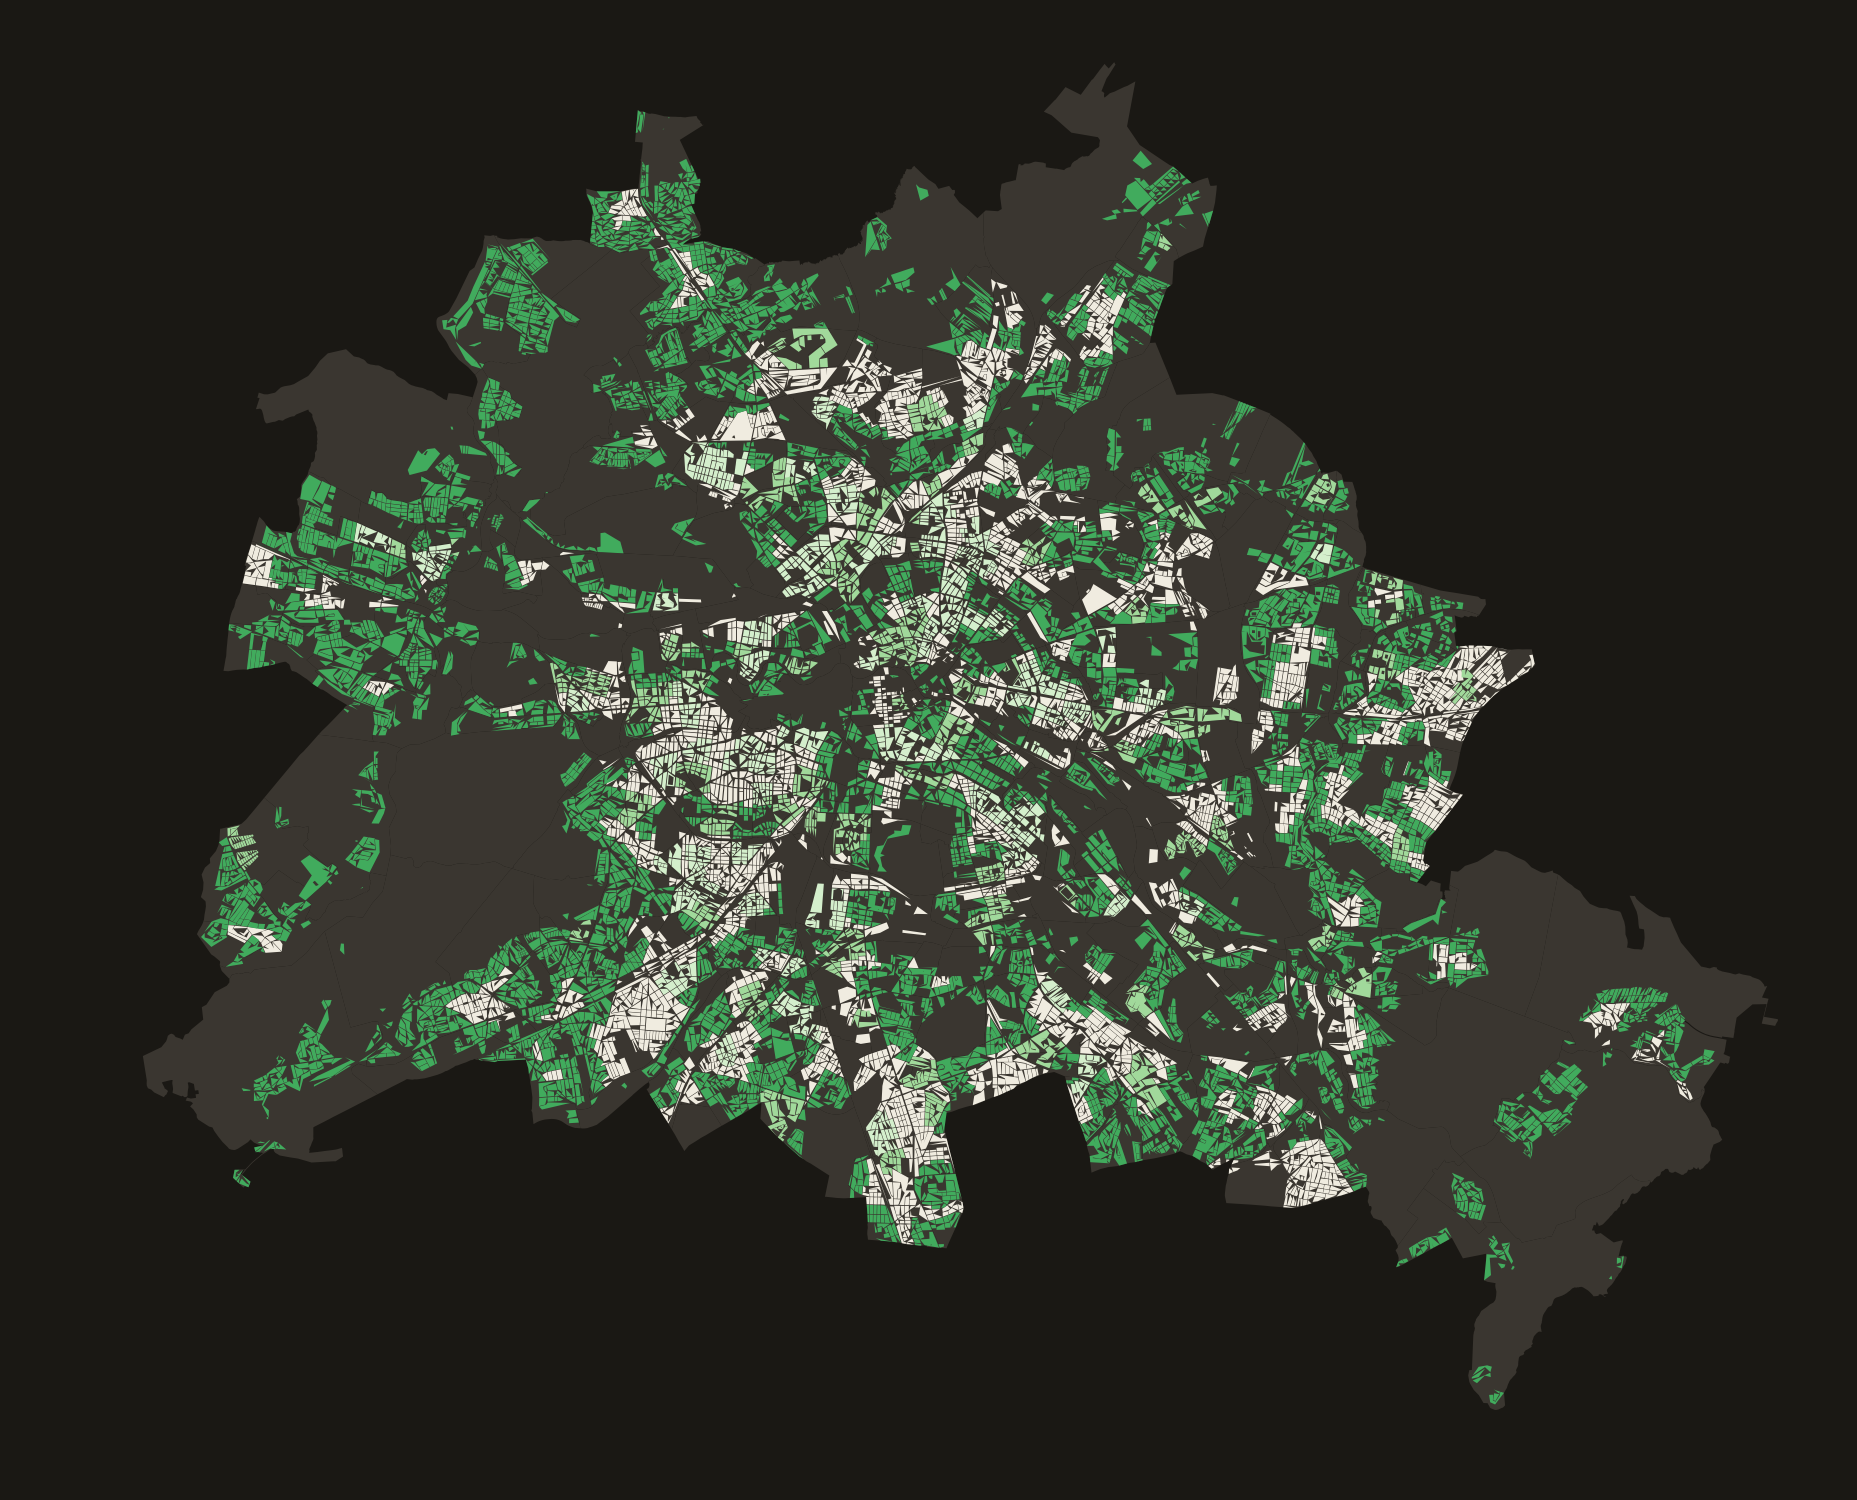
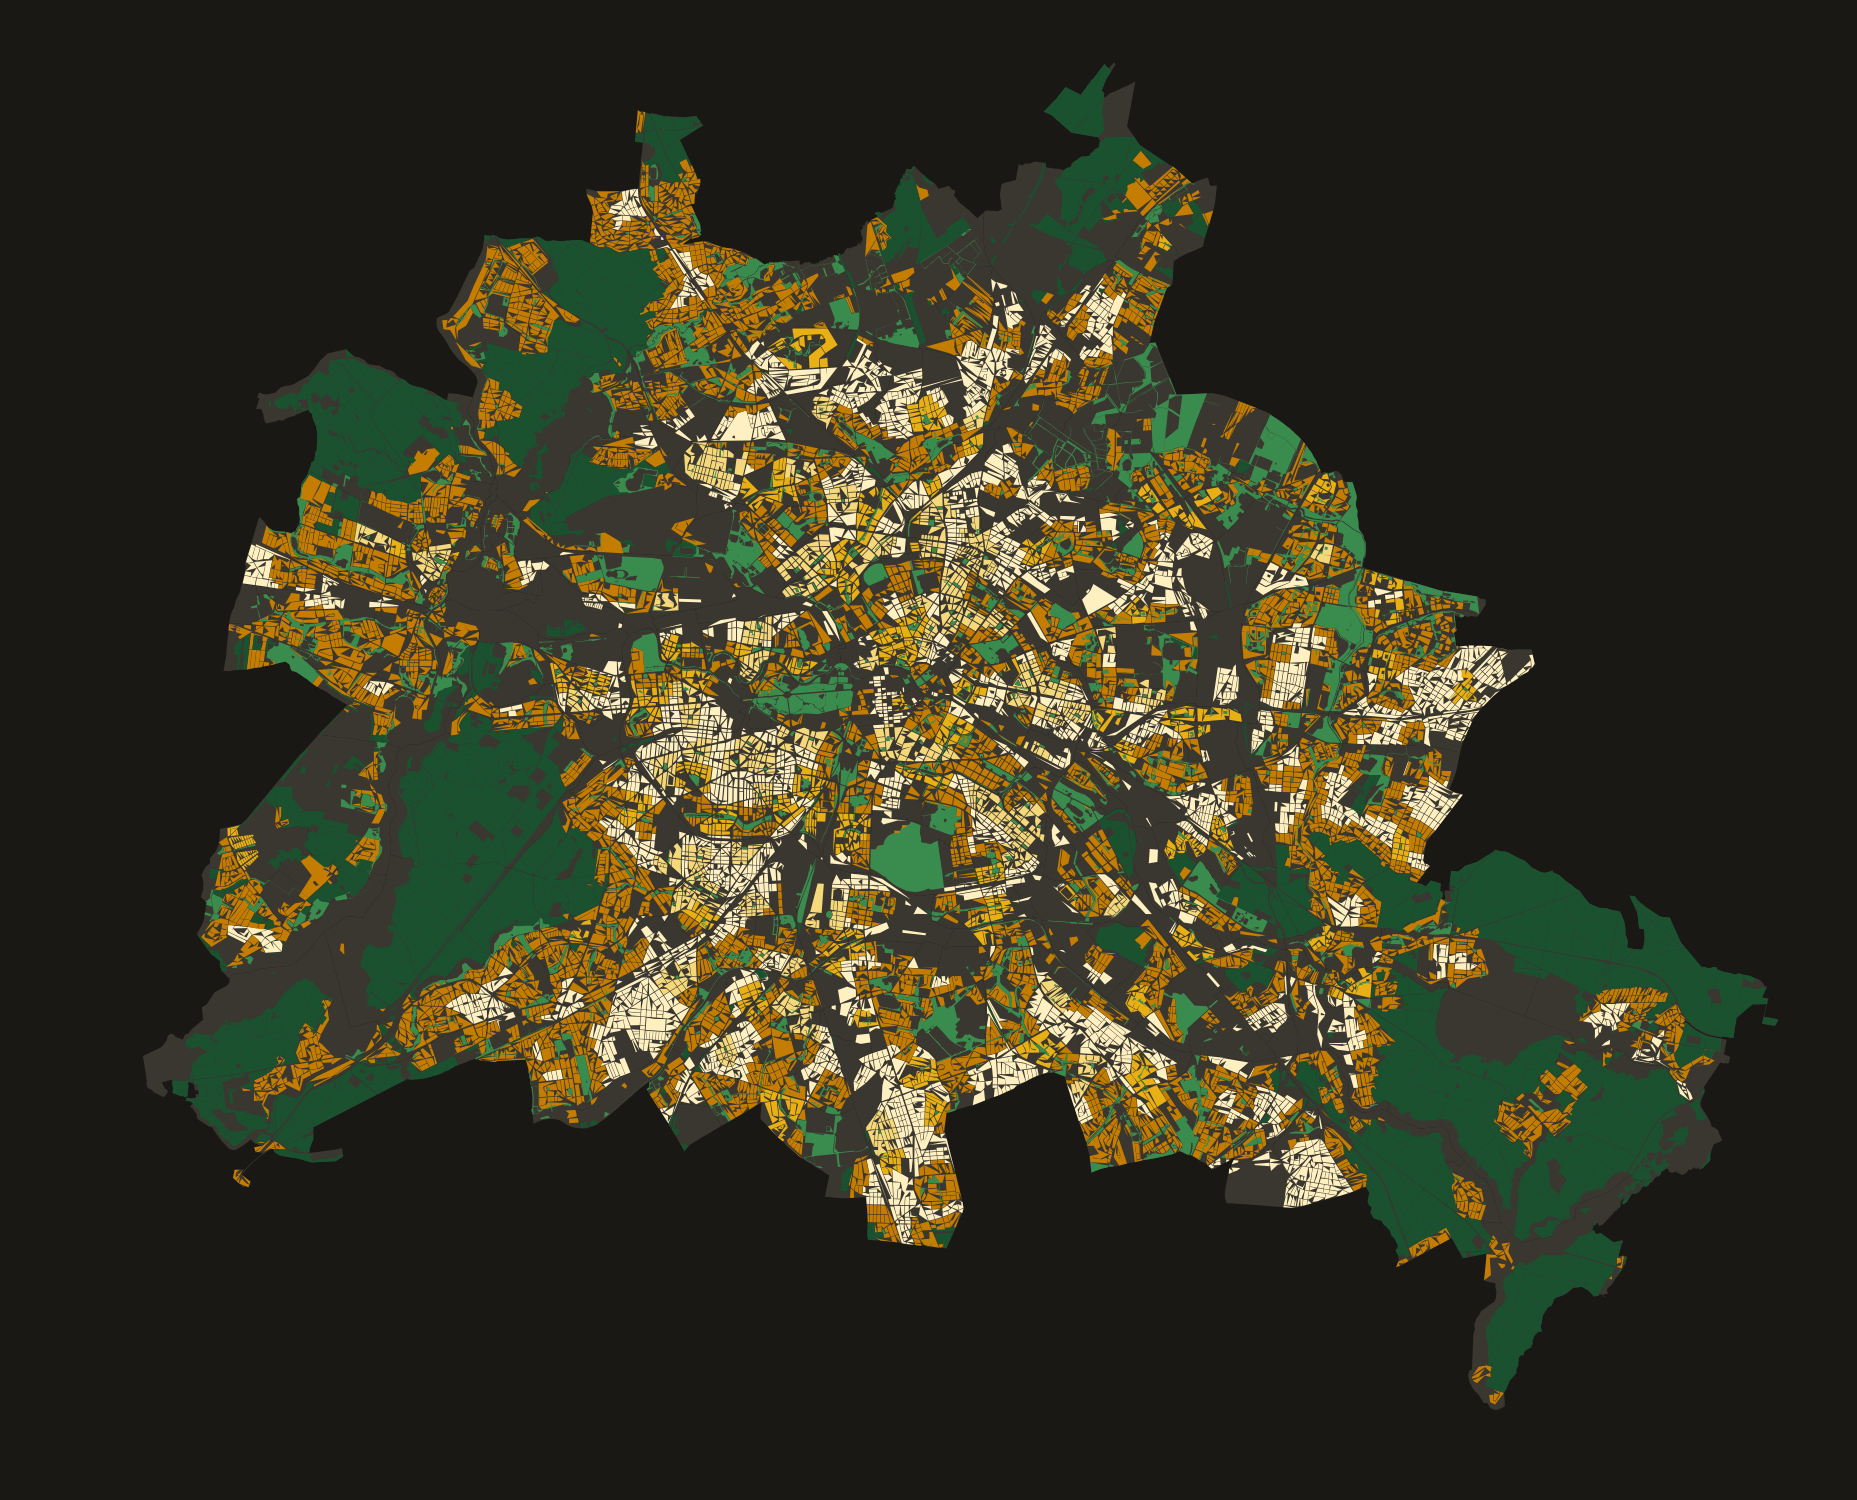
Neue Grünversorgungskarte mit Gelb-Abstufungen + Legenden mit Farbklötzen
- karten_rendern.py: Grünversorgung-Karte neu gebaut aus drei Lagen:
  LOR-Basis (dunkelgrau) → Versorgungsgrad (Gelb-Amber-Abstufungen) →
  Parks/Grünanlagen (mittleres Grün) → Wälder (dunkles Grün)
- index.html: Versiegelung-Legende mit 5 Farbklötzen (< 20 % bis > 80 %)
- index.html: Grünversorgung-Legende mit 6 Einträgen (4 Gelb + Parks + Wald)

Changed region(s): [[0.0937, 0.0613, 0.9682, 0.9507]]

diff --git a/index.html b/index.html
@@ -170,7 +170,11 @@
     <div class="mc-wrap" style="height:500px;margin-top:2px;border-color:rgba(0,0,0,.15)">
       <img src="versiegelung.png" style="width:100%;height:100%;object-fit:cover;display:block;">
       <div class="leg"><div class="leg-t">Versiegelungsgrad 2021</div>
-        <div class="leg-r" style="font-size:10px;color:rgba(245,242,235,.5);line-height:1.4;max-width:130px">Hell = gering · Dunkel = stark versiegelt</div>
+        <div class="leg-r"><div class="sw" style="background:#d4cfc4"></div>&lt; 20 % – sehr gering</div>
+        <div class="leg-r"><div class="sw" style="background:#fecc5c"></div>20–40 % – gering</div>
+        <div class="leg-r"><div class="sw" style="background:#f97b2a"></div>40–60 % – mittel</div>
+        <div class="leg-r"><div class="sw" style="background:#d7191c"></div>60–80 % – hoch</div>
+        <div class="leg-r"><div class="sw" style="background:#7f0000"></div>&gt; 80 % – sehr hoch</div>
       </div>
     </div>
     <p style="font-family:'DM Mono',monospace;font-size:11px;letter-spacing:.04em;color:var(--muted);margin-top:10px;margin-bottom:2px">Quelle: Versiegelung der Blockteilflächen 2021, Umweltatlas Berlin.</p>
@@ -182,10 +186,12 @@
     <div class="mc-wrap" style="height:500px;margin-top:2px;border-color:rgba(0,0,0,.15)">
       <img src="gruenversorgung.png" style="width:100%;height:100%;object-fit:cover;display:block;">
       <div class="leg"><div class="leg-t">Grünversorgung (500-m-Radius)</div>
-        <div class="leg-r"><div class="sw" style="background:#238b45"></div>Gut versorgt</div>
-        <div class="leg-r"><div class="sw" style="background:#74c476"></div>Unterversorgt</div>
-        <div class="leg-r"><div class="sw" style="background:#c7e9c0"></div>Schlecht versorgt</div>
-        <div class="leg-r"><div class="sw" style="background:#f7fcf5;border:1px solid rgba(255,255,255,.2)"></div>Nicht versorgt</div>
+        <div class="leg-r"><div class="sw" style="background:#c47d00"></div>Gut versorgt</div>
+        <div class="leg-r"><div class="sw" style="background:#e8b014"></div>Unterversorgt</div>
+        <div class="leg-r"><div class="sw" style="background:#f5d87a"></div>Schlecht versorgt</div>
+        <div class="leg-r"><div class="sw" style="background:#fef0c0;border:1px solid rgba(255,255,255,.15)"></div>Nicht versorgt</div>
+        <div class="leg-r" style="margin-top:4px"><div class="sw" style="background:#3a8c4e"></div>Parks / Grünanlagen</div>
+        <div class="leg-r"><div class="sw" style="background:#1a5230"></div>Wälder</div>
       </div>
     </div>
     <p style="font-family:'DM Mono',monospace;font-size:11px;letter-spacing:.04em;color:var(--muted);margin-top:10px;margin-bottom:48px">Quelle: Versorgung mit wohnungsnahen Grünanlagen 2020, Umweltatlas Berlin. m² öffentlicher Grünfläche pro Einwohner im 500-m-Gehwegnetz.</p>

diff --git a/karten_rendern.py b/karten_rendern.py
@@ -79,26 +79,39 @@ speichern(fig, os.path.join(ROOT, 'versiegelung.png'))
 # ── 2. Grünversorgung ──────────────────────────────────────────────────────
 
 print("[2/2] Rendere Grünversorgung 2020...")
-gdf_gv = gpd.read_file(os.path.join(ROOT, 'gruenversorgung.geojson'))
-gdf_gv = gdf_gv.to_crs('EPSG:25833')
 
-# LOR als Basis-Layer (füllt Lücken, damit kein schwarzer Hintergrund)
+# LOR als Basis-Layer
 gdf_lor = gpd.read_file(os.path.join(ROOT, 'lor.geojson'))
 gdf_lor = gdf_lor.to_crs('EPSG:25833')
 
-# Hellere Farben damit 'versorgter Bereich' nicht mit dem dunklen Hintergrund verschmilzt
+# Versorgungsgrad in Gelb-Abstufungen (dunkel = gut versorgt, hell = schlecht)
+gdf_gv = gpd.read_file(os.path.join(ROOT, 'gruenversorgung.geojson'))
+gdf_gv = gdf_gv.to_crs('EPSG:25833')
+
 GV_COLORS = {
-    'versorgter Bereich':          '#41ab5d',  # kräftiges Grün
-    'unterversorgter Bereich':     '#a1d99b',  # helles Grün
-    'schlecht versorgter Bereich': '#d4efcc',  # sehr helles Grün
-    'nicht versorgter Bereich':    '#f0ece0',  # cremeweiß
+    'versorgter Bereich':          '#c47d00',  # sattes Amber (beste Versorgung)
+    'unterversorgter Bereich':     '#e8b014',  # mittleres Gelb
+    'schlecht versorgter Bereich': '#f5d87a',  # helles Gelb
+    'nicht versorgter Bereich':    '#fef0c0',  # sehr helles Creme-Gelb
 }
 gdf_gv['_color'] = gdf_gv['voeff_name'].map(GV_COLORS).fillna('#888888')
 
+# Parks und Wälder als Overlay
+gdf_parks = gpd.read_file(os.path.join(ROOT, 'rohdaten', 'öffentliche grünanlagen.geojson'))
+gdf_parks = gdf_parks.to_crs('EPSG:25833')
+
+gdf_wald = gpd.read_file(os.path.join(ROOT, 'rohdaten', 'Wald (erholung).geojson'))
+# Wald liegt bereits in EPSG:25833
+
 fig, ax = basis_figure()
-# Erst LOR als neutrale Basis (dunkelgrau), dann Grünversorgung drauf
+# 1) LOR als neutrale Basis
 gdf_lor.plot(ax=ax, color='#3a3630', linewidth=0, edgecolor='none')
+# 2) Versorgungsgrad (gelbe Abstufungen)
 gdf_gv.plot(ax=ax, color=gdf_gv['_color'], linewidth=0, edgecolor='none')
+# 3) Parks (mittleres Grün)
+gdf_parks.plot(ax=ax, color='#3a8c4e', linewidth=0, edgecolor='none')
+# 4) Wälder (dunkles Grün)
+gdf_wald.plot(ax=ax, color='#1a5230', linewidth=0, edgecolor='none')
 speichern(fig, os.path.join(ROOT, 'gruenversorgung.png'))
 
 print("\nFertig. Nächster Schritt:")
